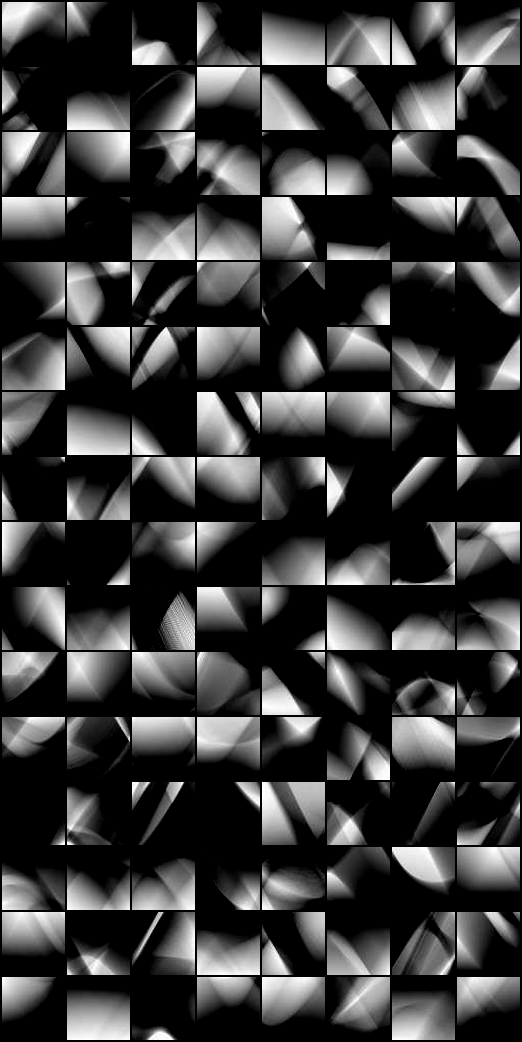
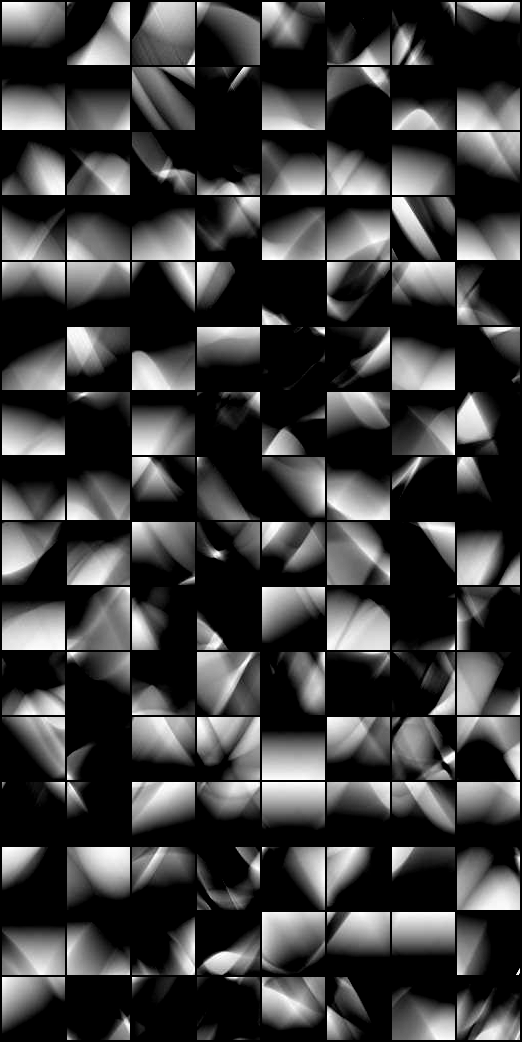
added completion inpainting

diff --git a/src/train_completion.py b/src/train_completion.py
@@ -12,7 +12,7 @@ import utils
 
 
 # Train policy.
-def train(epoch, n_pre_train):
+def train(epoch, n_pre_com, n_pre_dis):
     for idx, data in enumerate(tqdm(data_loader)):
 
         data = Variable(data).cuda()
@@ -21,14 +21,14 @@ def train(epoch, n_pre_train):
         mask = np.empty((args.batch_size, 1, data.shape[2], data.shape[3]))
 
         for i in range(args.batch_size):
-            n = np.random.randint(2, 9)
-            mask[i] = utils.create_inv_mask(n)
+            # n = np.random.randint(2, 9)
+            mask[i] = utils.create_inv_mask(4)
 
         mask = torch.from_numpy(mask).float()
         mask = Variable(mask).cuda()
 
         # Pre-train the completion network.
-        if epoch < n_pre_train:
+        if epoch < n_pre_com:
 
             # Optimize.
             opt_com.zero_grad()
@@ -39,14 +39,11 @@ def train(epoch, n_pre_train):
             loss_com.backward()
             opt_com.step()
 
-        # Perform adversarial training.
-        else:
+        # Pre-train the discriminator.
+        elif n_pre_com <= epoch < n_pre_dis:
 
-            # Train discriminator.
+            # Optimize.
             opt_dis.zero_grad()
-
-            real_label = Variable(torch.ones(args.batch_size)).cuda()
-            fake_label = Variable(torch.zeros(args.batch_size)).cuda()
 
             out_com = com(data, mask)
 
@@ -57,7 +54,10 @@ def train(epoch, n_pre_train):
             in_local_real = data[:, :, n_x:n_x + 128, n_y:n_y + 128]
             in_local_fake = out_com[:, :, n_x:n_x + 128, n_y:n_y + 128]
 
-            # Optimize.
+            # Labels for real data and completed data.
+            real_label = Variable(torch.ones(args.batch_size, 1, 1, 1)).cuda()
+            fake_label = Variable(torch.zeros(args.batch_size, 1, 1, 1)).cuda()
+
             out_dis = dis(in_local_real, data)
             loss_dis = adv_loss(out_dis, real_label)
 
@@ -67,24 +67,53 @@ def train(epoch, n_pre_train):
             loss_dis.backward()
             opt_dis.step()
 
+        # Perform adversarial training.
+        else:
+
+            # Train discriminator.
+            opt_dis.zero_grad()
+
+            out_com = com(data, mask)
+
+            # Random local sample.
+            n_x = np.random.randint(0, data.shape[2] - 128)
+            n_y = np.random.randint(0, data.shape[3] - 128)
+
+            in_local_real = data[:, :, n_x:n_x + 128, n_y:n_y + 128]
+            in_local_fake = out_com[:, :, n_x:n_x + 128, n_y:n_y + 128]
+
+            # Labels for real data and completed data.
+            real_label = Variable(torch.ones(args.batch_size, 1, 1, 1)).cuda()
+            fake_label = Variable(torch.zeros(args.batch_size, 1, 1, 1)).cuda()
+
+            # Optimize.
+            out_dis = dis(in_local_real, data)
+            loss_dis = adv_loss(out_dis, real_label)
+
+            out_dis = dis(in_local_fake, out_com)
+            loss_dis += adv_loss(out_dis, fake_label)
+
+            loss_dis.backward(retain_graph=True)
+            opt_dis.step()
+
             # Train completion to fool discriminator.
             opt_com.zero_grad()
 
-            loss_com = pre_loss(out_com, data) + adv_loss(out_dis, real_label)
+            loss_com = pre_loss(out_com, data) + alpha*adv_loss(out_dis, real_label)
 
             loss_com.backward()
             opt_com.step()
 
         if idx % 100 == 0:
-            save_image(data.data, '../img/progress_completion/real_radon_transform_{}.png'.format(epoch + 1), nrow=3)
-            save_image(torch.mul(data, 1 - mask).data, '../img/progress_completion/masked_radon_transform_{}.png'.format(epoch + 1), nrow=3)
-            save_image(out_com.data, '../img/progress_completion/completed_radon_transform_{}.png'.format(epoch + 1), nrow=3)
+            save_image(data.data, '../img/progress_completion/real_radon_transform_{}.png'.format(epoch + 1), nrow=2)
+            save_image(torch.mul(data, 1 - mask).data, '../img/progress_completion/masked_radon_transform_{}.png'.format(epoch + 1), nrow=2)
+            save_image(out_com.data, '../img/progress_completion/completed_radon_transform_{}.png'.format(epoch + 1), nrow=2)
 
 
 if __name__ == '__main__':
     # Some initial settings
     parser = argparse.ArgumentParser(description='Training of completion network for inpainting.')
-    parser.add_argument('-batch_size', type=int, default=6,
+    parser.add_argument('-batch_size', type=int, default=4,
                         help='Batch size (default = 128).')
     parser.add_argument('-num_workers', type=int, default=1,
                         help='Number of workers to load data (default = 2).')
@@ -100,6 +129,10 @@ if __name__ == '__main__':
     # Load completion network and discriminator.
     com = model_completion.Completion().cuda()
     dis = model_completion.Discriminator(args.batch_size).cuda()
+
+    # Load pre-trained models.
+    # com.load_state_dict(torch.load('../state_dict/com_pre.pth'))
+    # dis.load_state_dict(torch.load('../state_dict/gl_dis_pre.pth'))
 
     # Set up data loader.
     data_set = utils.RadonTransforms(args.csv_dir,
@@ -119,9 +152,12 @@ if __name__ == '__main__':
     pre_loss = nn.MSELoss().cuda()
     adv_loss = nn.BCELoss().cuda()
 
+    # Weighting of adversarial loss.
+    alpha = 1e-3
+
     for epoch in range(args.epochs):
-        train(epoch, 5)
+        train(epoch, 1, 1)
 
         # Save results.
         torch.save(com.state_dict(), '../state_dict/com_epoch_{}.pth'.format(epoch + 1))
-        torch.save(dis.state_dict(), '../state_dict/gl_dis.pth_epoch_{}.pth'.format(epoch + 1))
+        torch.save(dis.state_dict(), '../state_dict/gl_dis_epoch_{}.pth'.format(epoch + 1))

diff --git a/src/inpaint_completion.py b/src/inpaint_completion.py
@@ -1,0 +1,63 @@
+import numpy as np
+import scipy.misc
+import torch
+from torch.autograd import Variable
+from tqdm import tqdm
+import model_completion
+import utils
+
+
+# Load completion network.
+com = model_completion.Completion().cuda()
+com.load_state_dict(torch.load('../state_dict/com_epoch_12.pth'))
+
+
+# Load radon transform and normalize.
+radon = scipy.misc.imread('../img/rand_ell_rad.png')
+radon = radon/255
+
+
+# Apply mask.
+mask = utils.create_inv_mask(4)
+masked_radon = np.multiply(radon, (1 - mask))
+
+
+# Fill corrupted part with mean of uncorrupted part.
+ind = np.nonzero(1 - mask)
+mean = np.mean(masked_radon[ind])
+masked_radon = np.where((1 - mask), masked_radon, mean)
+
+
+# Expand dimensions.
+masked_radon = np.expand_dims(masked_radon, 0)
+masked_radon = np.expand_dims(masked_radon, 0)
+mask = np.expand_dims(mask, 0)
+mask = np.expand_dims(mask, 0)
+
+
+# Perform the inpainting.
+masked_radon = torch.from_numpy(masked_radon).float()
+masked_radon = Variable(masked_radon).cuda()
+
+mask = torch.from_numpy(mask).float()
+mask = Variable(mask).cuda()
+
+inp = com(masked_radon, mask)
+
+
+# Convert to numpy.
+masked_radon = masked_radon.cpu().data.numpy()
+inp = inp.cpu().data.numpy()
+
+
+# Squeeze dimensions.
+masked_radon = np.squeeze(masked_radon, 0)
+masked_radon = np.squeeze(masked_radon, 0)
+inp = np.squeeze(inp, 0)
+inp = np.squeeze(inp, 0)
+
+
+# Save results.
+scipy.misc.imsave('../img/completion_original.png', radon)
+scipy.misc.imsave('../img/completion_masked.png', masked_radon)
+scipy.misc.imsave('../img/completion_inpainted.png', inp)

diff --git a/src/reconstruction.py b/src/reconstruction.py
@@ -5,9 +5,13 @@ import utils
 
 
 # Load image.
-original = scipy.misc.imread('../img/original_rad.png')
+# original = scipy.misc.imread('../img/original_rad.png')
+# masked = scipy.misc.imread('../img/masked_rad.png')
+# optimal = scipy.misc.imread('../img/optimal.png')
+
+original = scipy.misc.imread('../img/completion_original.png')
 masked = scipy.misc.imread('../img/masked_rad.png')
-optimal = scipy.misc.imread('../img/optimal.png')
+optimal = scipy.misc.imread('../img/completion_inpainted.png')
 
 
 # Perform filtered back projection.
@@ -21,6 +25,10 @@ optimal = iradon(optimal, angles_optimal, circle=True)
 
 
 # Save results.
-scipy.misc.imsave('../img/reco_original.png', original)
-scipy.misc.imsave('../img/reco_masked.png', masked)
-scipy.misc.imsave('../img/reco_optimal.png', optimal)
+# scipy.misc.imsave('../img/reco_original.png', original)
+# scipy.misc.imsave('../img/reco_masked.png', masked)
+# scipy.misc.imsave('../img/reco_optimal.png', optimal)
+
+scipy.misc.imsave('../img/completion_reco_original.png', original)
+scipy.misc.imsave('../img/completion_reco_masked.png', masked)
+scipy.misc.imsave('../img/completion_reco_inpainted.png', optimal)
